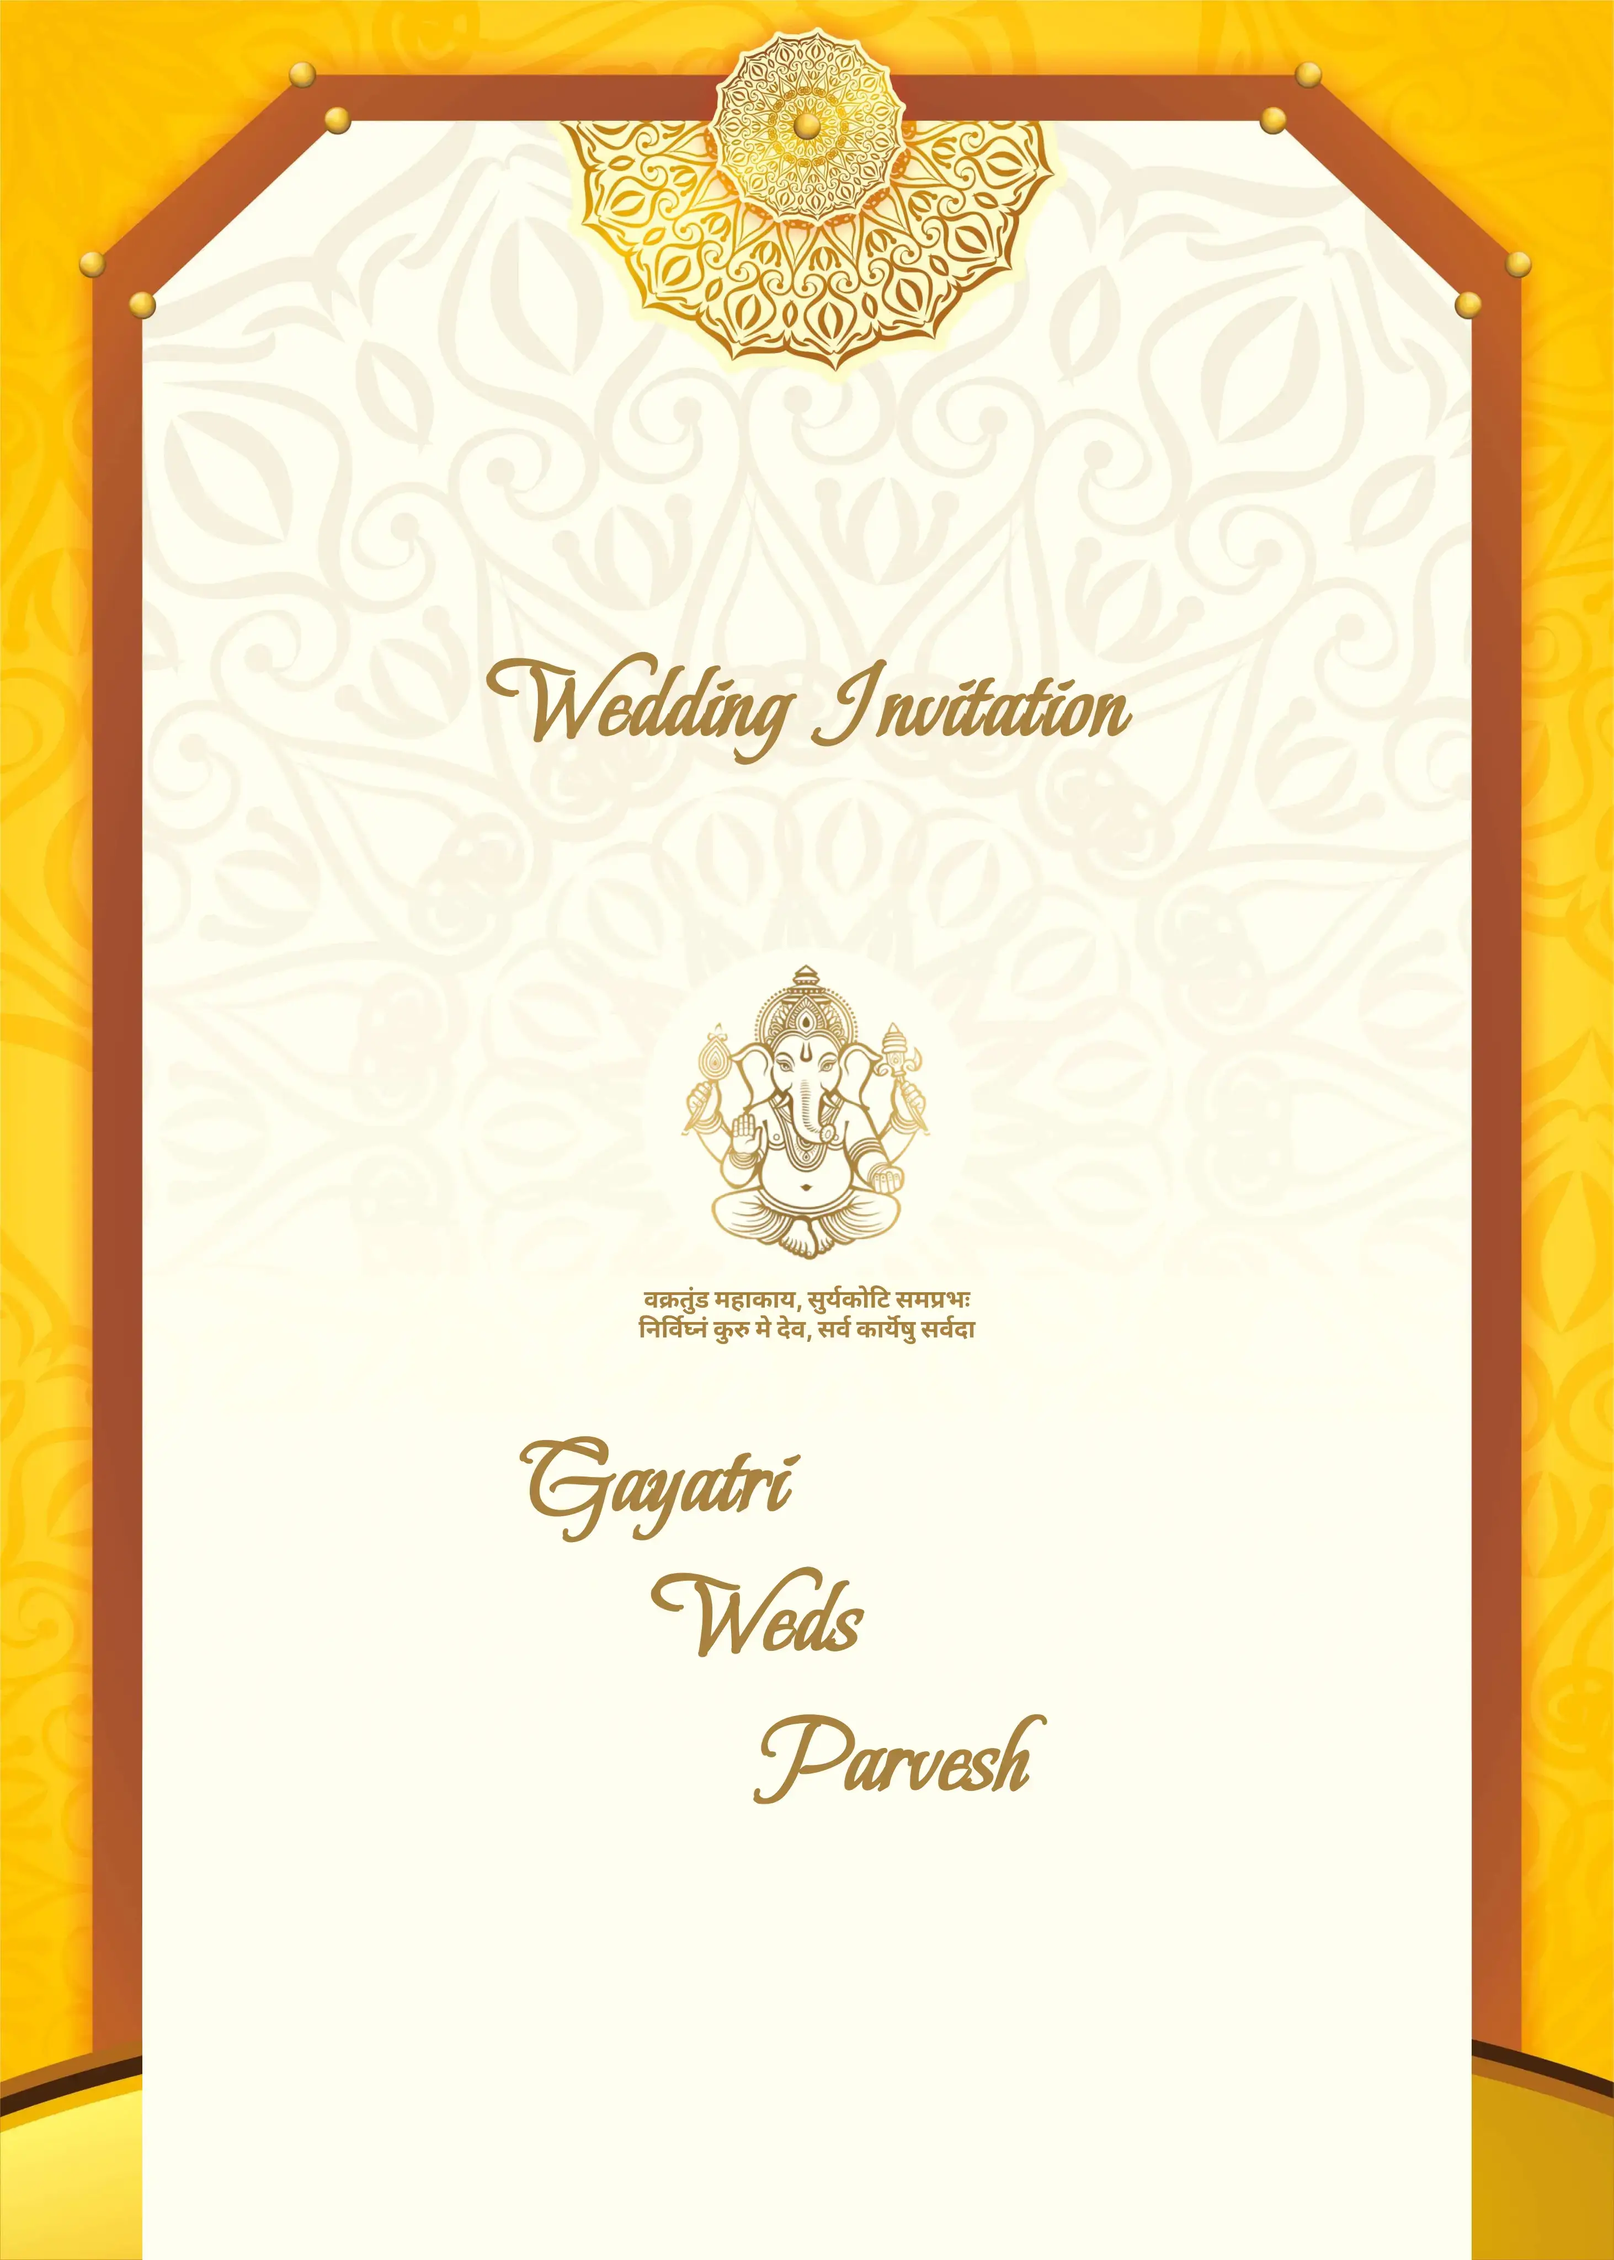
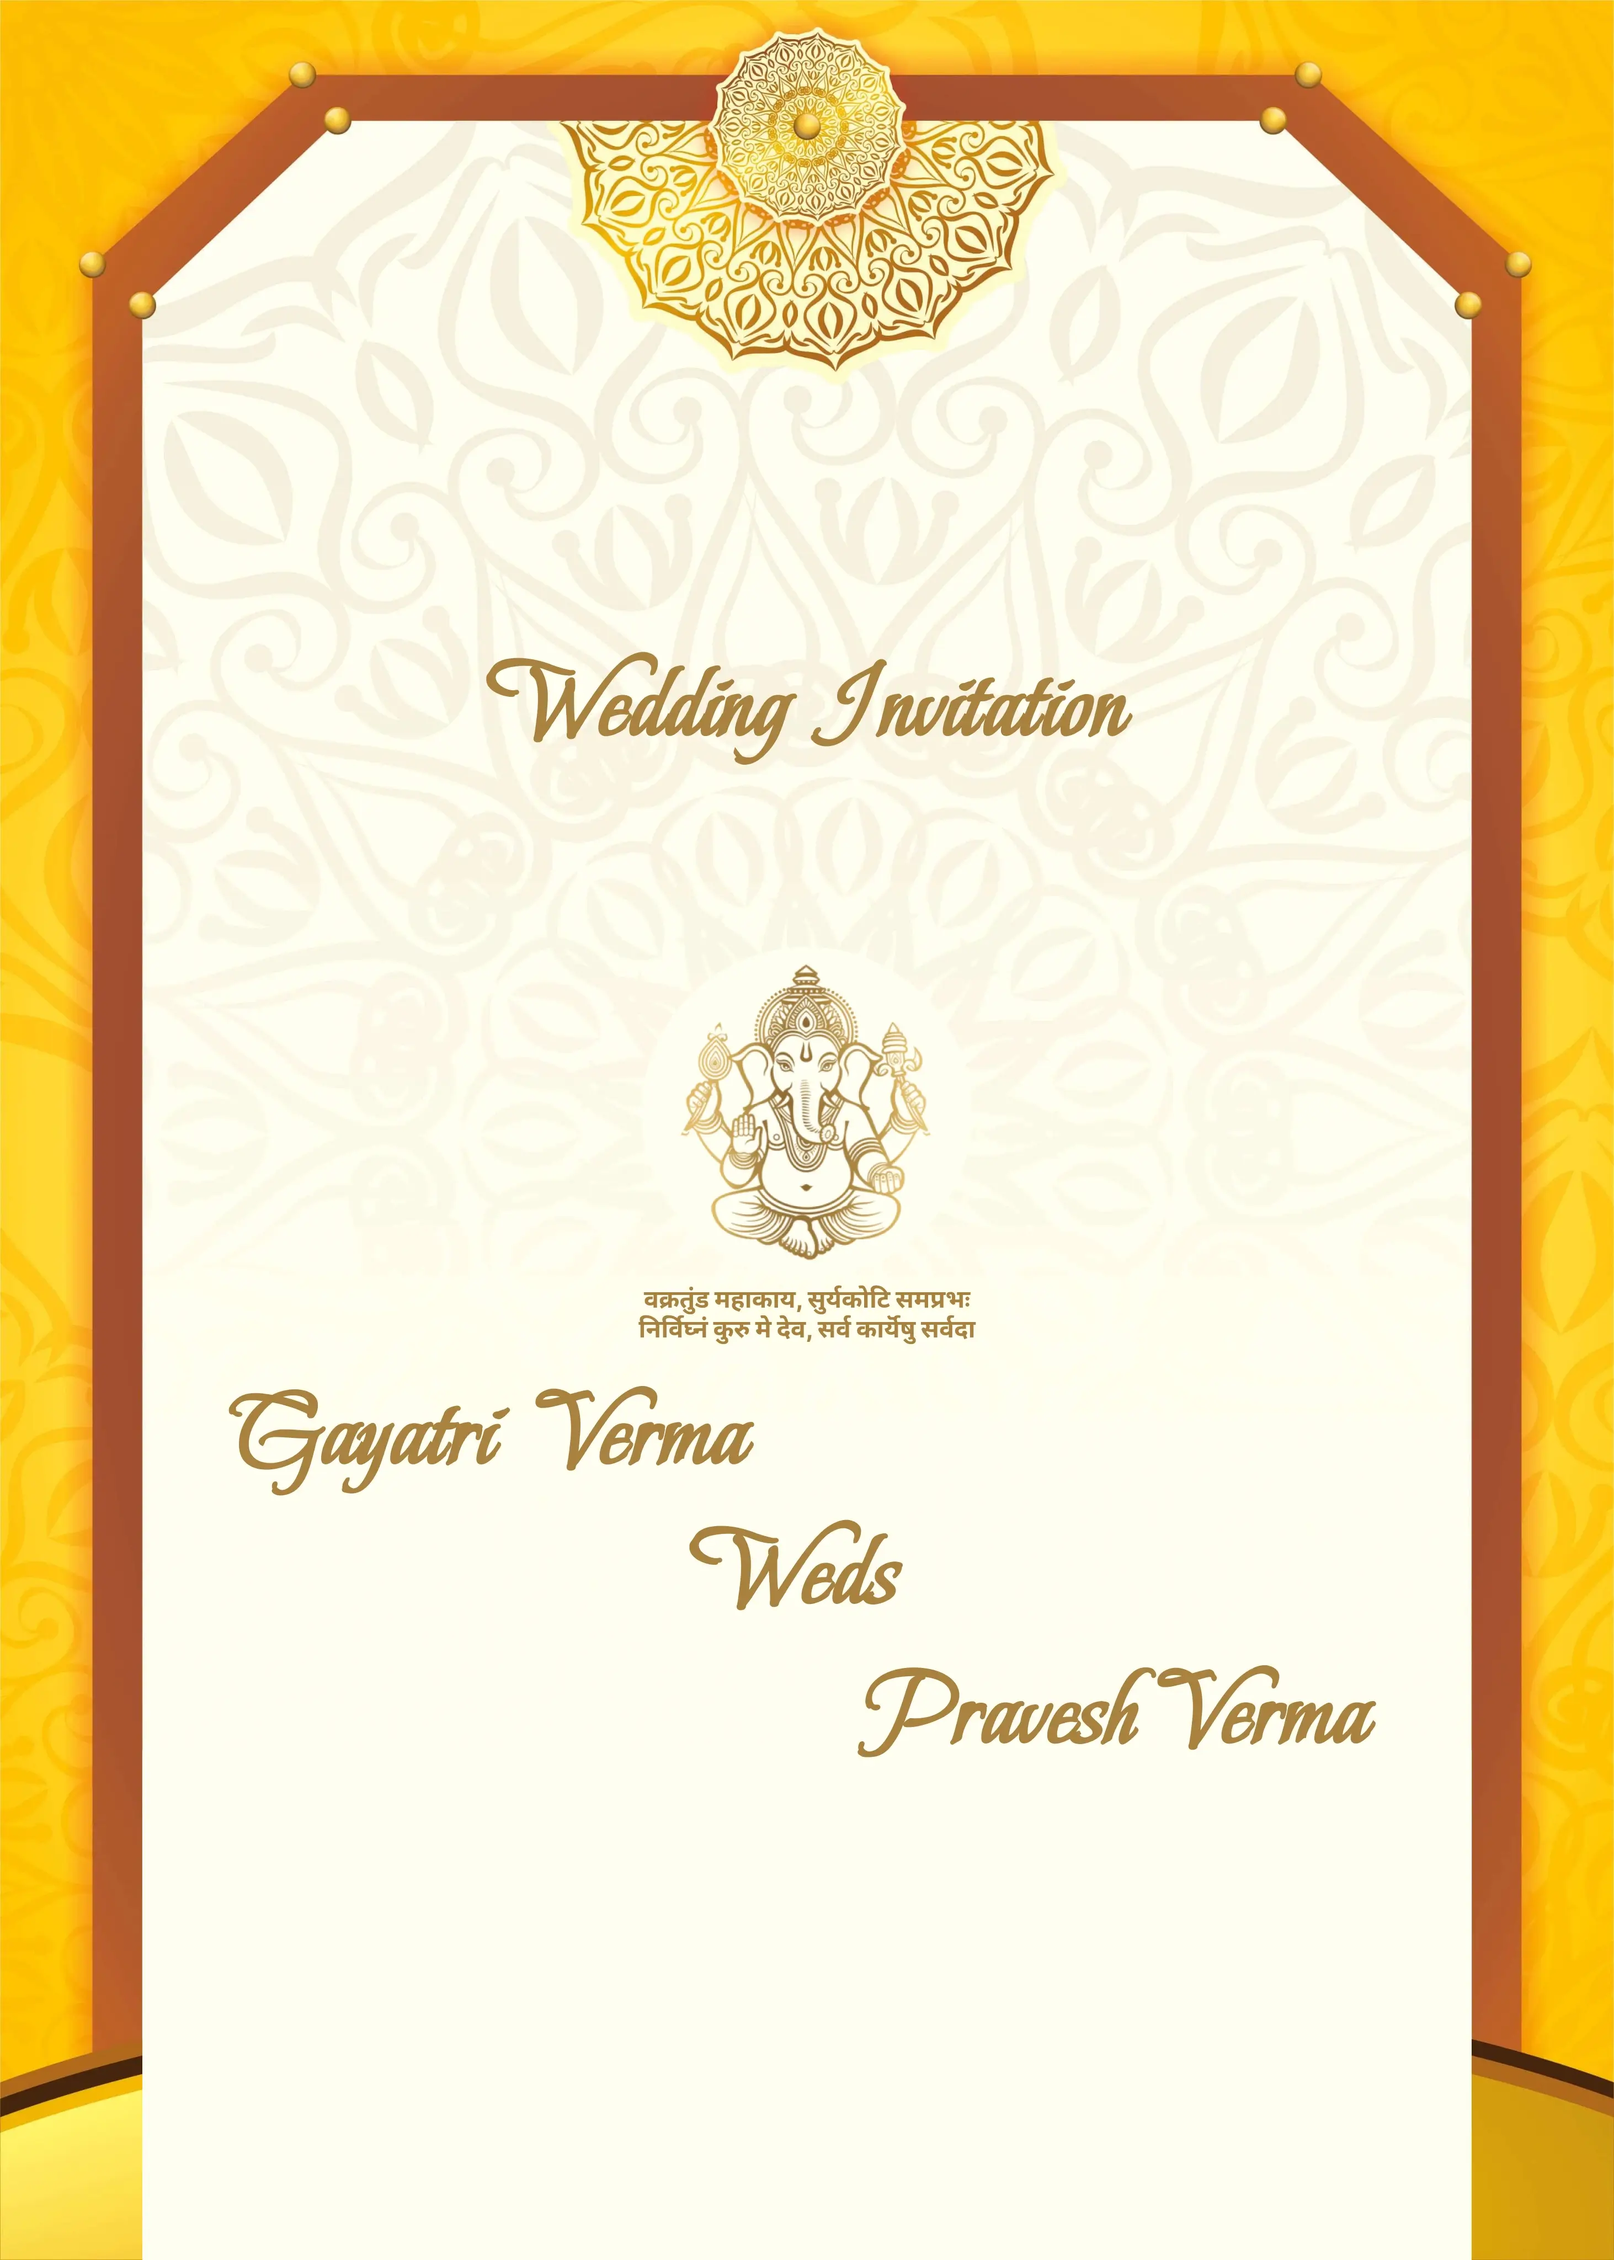
done

Changed region(s): [[0.1244, 0.5938, 0.8711, 0.8125]]

diff --git a/src/App.jsx b/src/App.jsx
@@ -8,8 +8,6 @@ import { $height } from "../constant";
 import AudioPlayer from "./components/AudioPlayer";
 import { useEffect, useState } from "react";
 
-import dayjs from "dayjs";
-import "dayjs/locale/hi";
 import Switch from "./components/Switch";
 
 const time = {
@@ -86,10 +84,6 @@ function App() {
   };
 
   useEffect(() => {
-    dayjs.locale(language ? "en" : "hi");
-  }, [language]);
-
-  useEffect(() => {
     document.getElementById("mobile").addEventListener("scroll", handleScroll);
     return () => document.getElementById("mobile").removeEventListener("scroll", handleScroll);
   }, []);
@@ -109,7 +103,7 @@ function App() {
         </SwitchContainer>
         <AudioPlayer src={audioSrc} />
         <Home language={language} bg={language ? images.home : images.home_hindi} />
-        <Event language={language} bg={language ? images.engagement : images.engagement_hindi} date={time.ringCeremony} venue={language ? address.en.ringCeremony : address.hi.ringCeremony} cords={place.ringCeremony} />
+        {/* <Event language={language} bg={language ? images.engagement : images.engagement_hindi} date={time.ringCeremony} venue={language ? address.en.ringCeremony : address.hi.ringCeremony} cords={place.ringCeremony} /> */}
         <Event language={language} bg={language ? images.haldi : images.haldi_hindi} date={time.haldiCeremony} venue={language ? address.en.haldiCeremony : address.hi.haldiCeremony} cords={place.haldiCeremony} />
         <Event language={language} bg={language ? images.mehandi : images.mehandi_hindi} date={time.mehandiCeremony} venue={language ? address.en.mehandiCeremony : address.hi.mehandiCeremony} cords={place.mehandiCeremony} />
         <Event language={language} bg={language ? images.sangeet : images.sangeet_hindi} date={time.sangeetCeremony} venue={language ? address.en.sangeetCeremony : address.hi.sangeetCeremony} cords={place.sangeetCeremony} />

diff --git a/src/hooks/useCountDown.jsx b/src/hooks/useCountDown.jsx
@@ -4,21 +4,21 @@ import duration from "dayjs/plugin/duration";
 
 dayjs.extend(duration);
 
-const useCountDown = (futureDate) => {
+const useCountDown = (futureDate, language) => {
   const [timeRemaining, setTimeRemaining] = useState(() => calculateTimeRemaining(futureDate));
 
   useEffect(() => {
     const interval = setInterval(() => {
-      setTimeRemaining(calculateTimeRemaining(futureDate));
+      setTimeRemaining(calculateTimeRemaining(futureDate, language));
     }, 1000);
 
     return () => clearInterval(interval);
-  }, [futureDate]);
+  }, [futureDate, language]);
 
   return timeRemaining;
 };
 
-const calculateTimeRemaining = (futureDate) => {
+const calculateTimeRemaining = (futureDate, language) => {
   const now = dayjs();
   const eventDate = dayjs(futureDate);
 
@@ -27,14 +27,12 @@ const calculateTimeRemaining = (futureDate) => {
   }
 
   const diff = dayjs.duration(eventDate.diff(now));
-
-  const months = diff.months();
   const days = diff.days();
   const hours = diff.hours();
   const minutes = diff.minutes();
   const seconds = diff.seconds();
 
-  return `${months ? `${months} ${months > 1 ? "Months" : "Month"}` : ""}  ${days}d ${hours}h ${minutes}m ${seconds}s`;
+  return language ? `${days}d ${hours}h ${minutes}m ${seconds}s` : `${days} दिन ${hours} घं॰ ${minutes} मि॰ ${seconds} से॰`;
 };
 
 export default useCountDown;

diff --git a/index.html b/index.html
@@ -4,13 +4,13 @@
     <meta charset="UTF-8" />
     <link rel="icon" type="image/svg+xml" href="/src/assets/pgIcon.png" />
     <meta name="viewport" content="width=device-width, initial-scale=1.0" />
-    <meta property="og:title" content="Gayatri and Parvesh" />
-    <meta property="og:description" content="Invitation for the wedding of Gayatri and Parvesh" />
+    <meta property="og:title" content="Gayatri and Pravesh" />
+    <meta property="og:description" content="Invitation for the wedding of Gayatri and Pravesh" />
     <meta property="og:image" content="/src/assets/og-image.webp" />
-    <meta property="og:url" content="https://wedding-invite-gayatri-parvesh.netlify.app/" />
-    <meta name="description" content="Invitation for the wedding of Gayatri and Parvesh" />
-    <meta name="title" content="Gayatri and Parvesh" />
-    <title>Gayatri and Parvesh</title>
+    <meta property="og:url" content="https://wedding-invite-gayatri-Pravesh.netlify.app/" />
+    <meta name="description" content="Invitation for the wedding of Gayatri and Pravesh" />
+    <meta name="title" content="Gayatri and Pravesh" />
+    <title>Gayatri and Pravesh</title>
   </head>
   <body>
     <div id="root"></div>

diff --git a/src/components/Event.jsx b/src/components/Event.jsx
@@ -5,17 +5,26 @@ import { BottomFixedContainer, DateText, MapButton, MT, ScreensWrapper, SmallTex
 import Flowers from "./Flowers";
 import { $height } from "../../constant";
 import Timer from "./Timer";
+import { useEffect, useState } from "react";
+import "dayjs/locale/hi";
 
 dayjs.extend(relativeTime);
 
 const Event = ({ bg, date, venue, cords, language }) => {
+  const [time, setTime] = useState("");
+
+  useEffect(() => {
+    dayjs.locale(language ? "en" : "hi");
+    setTime(dayjs(date).format("DD MMMM YYYY hh:mm a"));
+    // eslint-disable-next-line react-hooks/exhaustive-deps
+  }, [language]);
   return (
     <ScreensWrapper $height={$height} bg={bg}>
       <div style={{ position: "relative", height: $height + "px" }}>
         <Flowers />
         <BottomFixedContainer>
-          <DateText>{dayjs(date).format("DD MMMM YYYY hh:mm a")}</DateText>
-          <Timer date={date} />
+          <DateText>{time}</DateText>
+          <Timer date={date} language={language} />
           <MT $MT="1.5vh" />
           <SubText>{language ? "Venue" : "स्थान"}</SubText>
           <div style={{ padding: "0px 2rem" }}>

diff --git a/src/components/Timer.jsx b/src/components/Timer.jsx
@@ -2,8 +2,8 @@
 import useCountDown from "../hooks/useCountDown";
 import { TimerText } from "../App";
 
-const Timer = ({ date }) => {
-  const countDown = useCountDown(date);
+const Timer = ({ date, language }) => {
+  const countDown = useCountDown(date, language);
 
   return <TimerText>{countDown}</TimerText>;
 };
